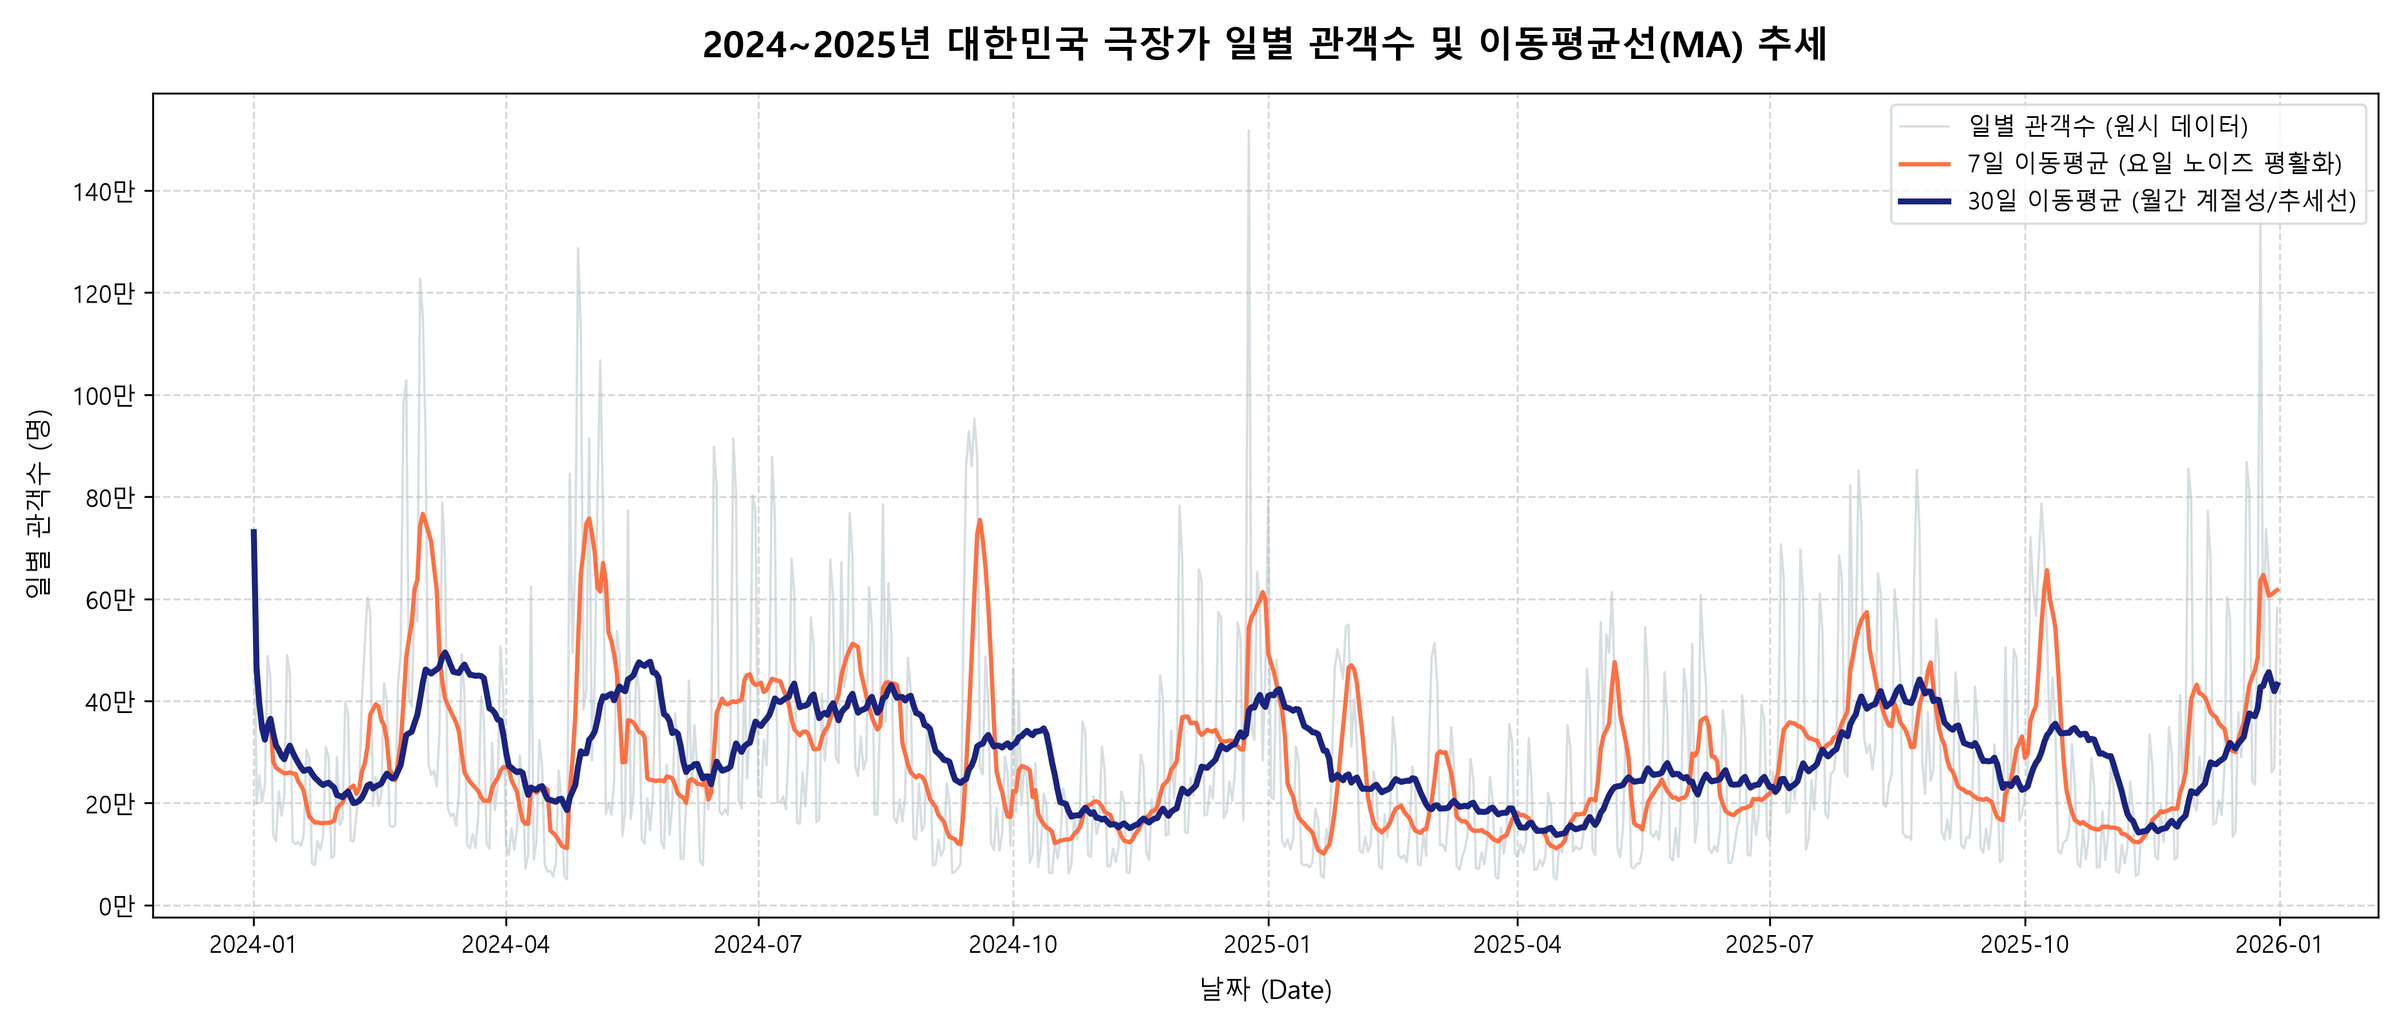
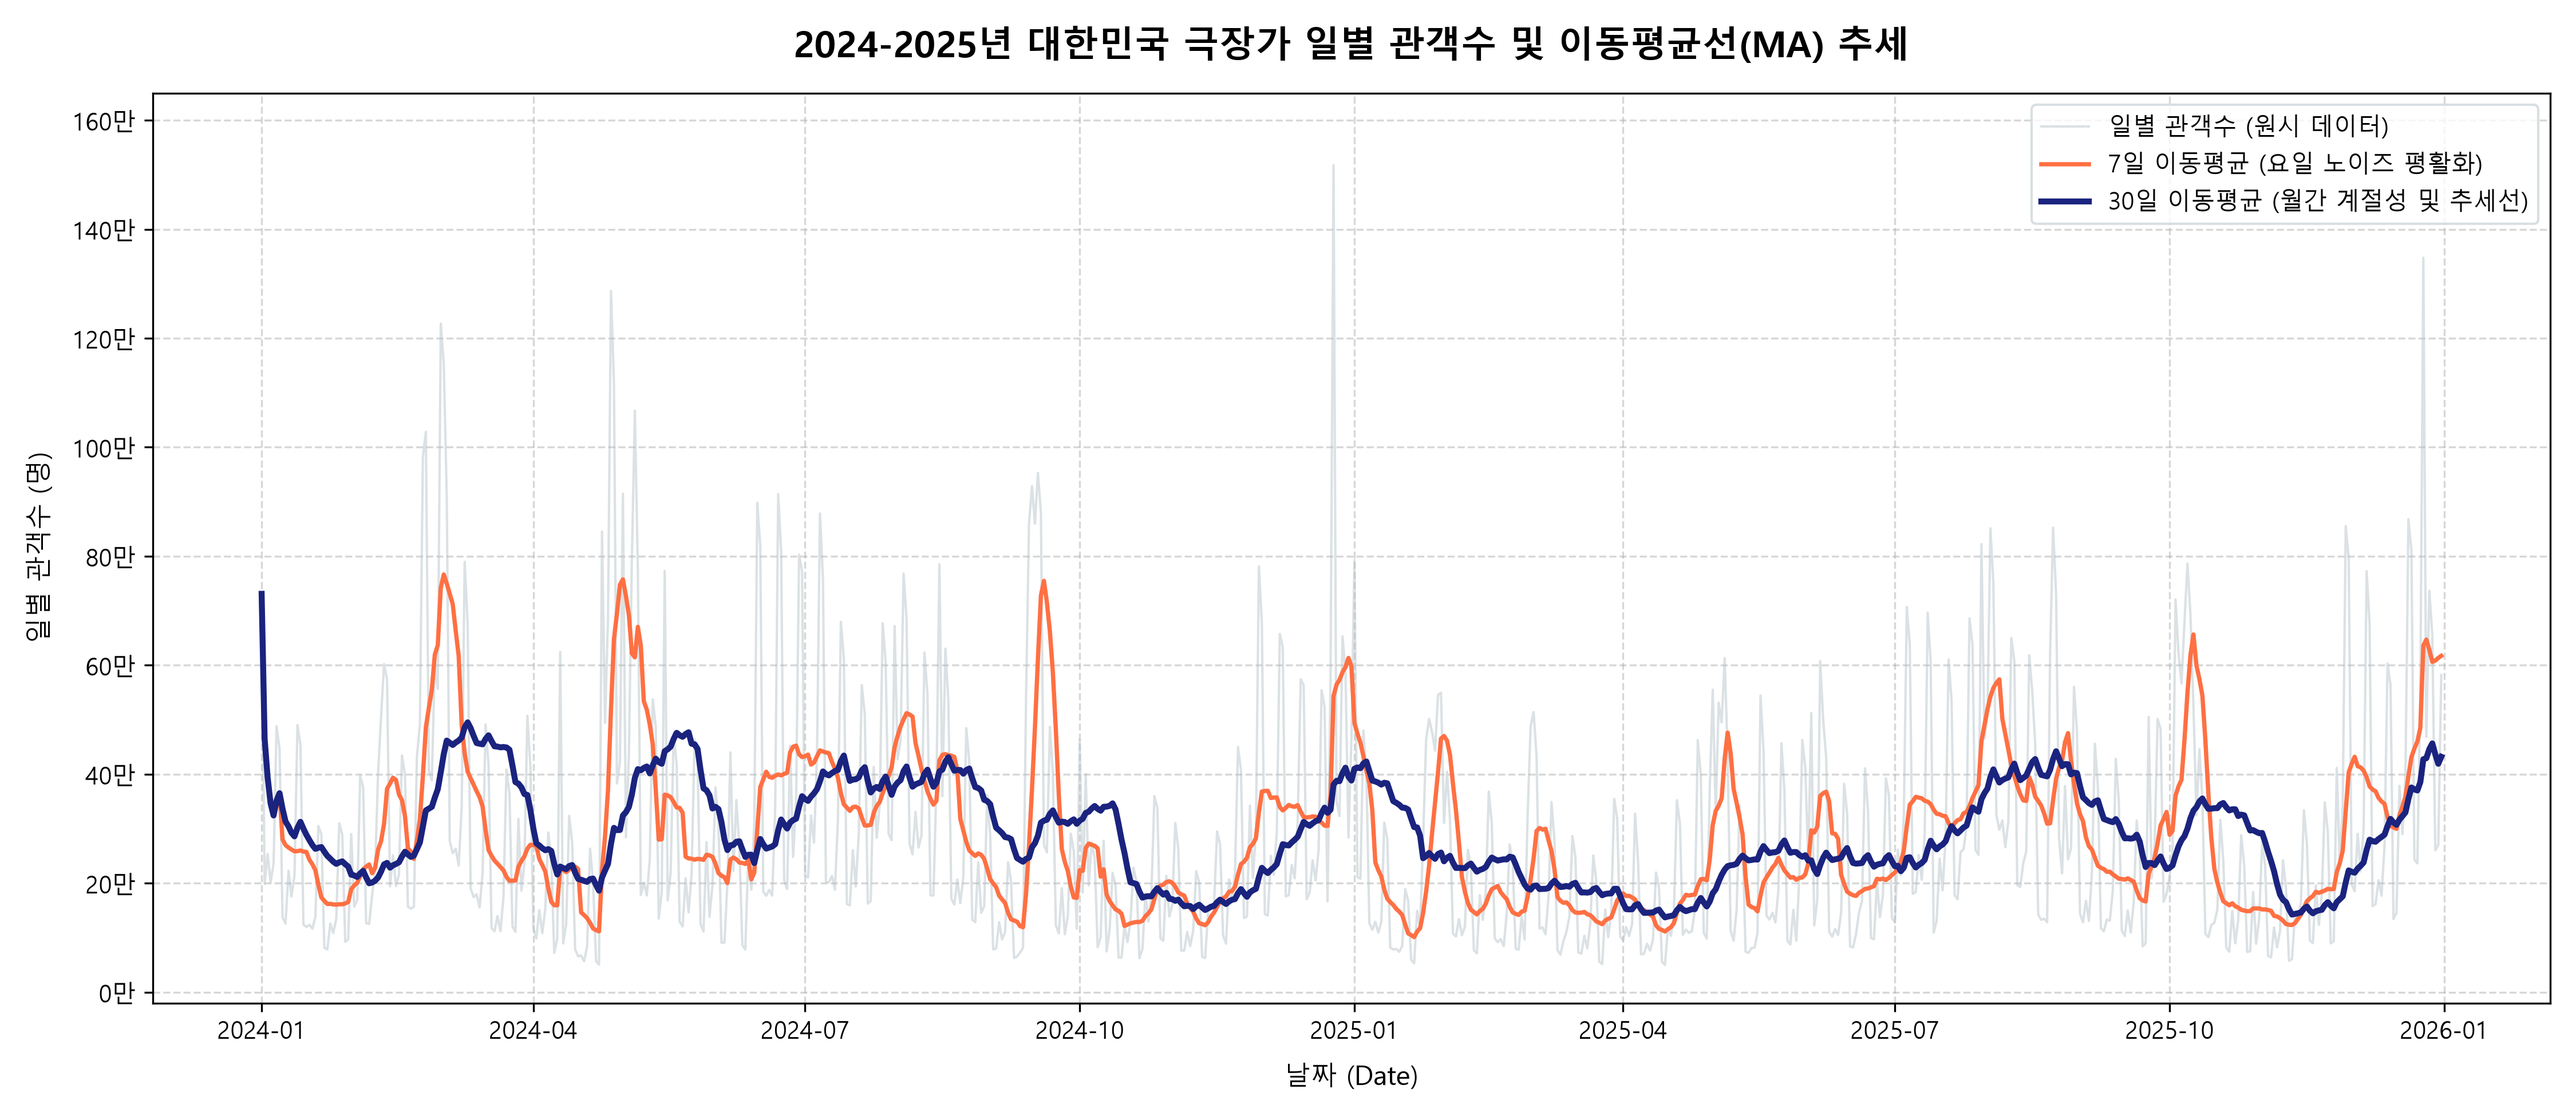
시각화 개선: 03 이상치 어노테이션 텍스트 겹침 완전 해결 및 범위 기호(-) 통일

diff --git a/generate_visualizations.py b/generate_visualizations.py
@@ -1,9 +1,13 @@
 """
-STEP 4. 고품질 시각화 3종 생성 및 images/ 저장 스크립트
+STEP 4. 고품질 시각화 3종 생성 및 images/ 저장 스크립트 (수정본)
 
-1. images/01_audience_trend_ma.png: 일별 관객수 및 7일/30일 이동평균선 추세
-2. images/02_dow_and_monthly_pattern.png: 요일별 패턴(주말 2.19배) 및 월별 계절성 비교
-3. images/03_outlier_peaks_annotated.png: 역대 TOP 5 이상치(피크) 및 원인 영화 어노테이션
+수정 사항:
+1. 모든 제목, 축 라벨, 범례에서 물결표(~)를 하이픈(-)으로 전면 교체
+2. 03_outlier_peaks_annotated.png 에서:
+   - y축 상단 여백을 205만까지 확장하여 제목과 어노테이션 말풍선 겹침 완전 해결
+   - 범례 위치와 말풍선 위치의 충돌을 방지하기 위해 범례를 중앙 상단으로 재배치
+   - 2024-03-01과 2024-03-02 연속된 두 피크의 말풍선이 겹치지 않도록 방향 분리
+   - 배경 박스 가독성 및 폰트 굵기/선명도 향상
 """
 import os
 import sys
@@ -12,7 +16,6 @@ import matplotlib.ticker as ticker
 import numpy as np
 import pandas as pd
 
-# 1. 폰트 및 한글 깨짐 방지 설정
 if sys.platform.startswith("win"):
     try:
         sys.stdout.reconfigure(encoding="utf-8")
@@ -28,25 +31,23 @@ df = pd.read_csv(IN_PATH, encoding="utf-8-sig")
 df["date"] = pd.to_datetime(df["date"])
 
 print("=" * 65)
-print("🎨 [STEP 4] 리포트용 고품질 시각화 3종 생성 시작")
+print("🎨 [STEP 4 수정] 텍스트 겹침 해결 및 기호(-) 교체 시각화 생성")
 print("=" * 65)
 
 # -------------------------------------------------------------
-# 시각화 1: 2024~2025 일별 관객수 및 이동평균선(7일/30일) 추세
+# 시각화 1: 2024-2025 일별 관객수 및 이동평균선(7일/30일) 추세
 # -------------------------------------------------------------
-plt.figure(figsize=(14, 6), dpi=300)
+plt.figure(figsize=(15, 6.5), dpi=300)
 ax = plt.subplot(1, 1, 1)
 
-# 원본 관객수 (연한 회청색)
-ax.plot(df["date"], df["total_audi"], color="#b0bec5", alpha=0.5, linewidth=1.0, label="일별 관객수 (원시 데이터)")
-# 7일 이동평균 (오렌지)
+ax.plot(df["date"], df["total_audi"], color="#b0bec5", alpha=0.45, linewidth=1.0, label="일별 관객수 (원시 데이터)")
 ax.plot(df["date"], df["ma_7"], color="#ff7043", linewidth=1.8, label="7일 이동평균 (요일 노이즈 평활화)")
-# 30일 이동평균 (네이비 굵은 선)
-ax.plot(df["date"], df["ma_30"], color="#1a237e", linewidth=2.5, label="30일 이동평균 (월간 계절성/추세선)")
+ax.plot(df["date"], df["ma_30"], color="#1a237e", linewidth=2.5, label="30일 이동평균 (월간 계절성 및 추세선)")
 
-ax.set_title("2024~2025년 대한민국 극장가 일별 관객수 및 이동평균선(MA) 추세", fontsize=15, fontweight="bold", pad=15)
+ax.set_title("2024-2025년 대한민국 극장가 일별 관객수 및 이동평균선(MA) 추세", fontsize=15, fontweight="bold", pad=15)
 ax.set_xlabel("날짜 (Date)", fontsize=11, labelpad=8)
 ax.set_ylabel("일별 관객수 (명)", fontsize=11, labelpad=8)
+ax.set_ylim(-20000, 1650000)
 ax.yaxis.set_major_formatter(ticker.FuncFormatter(lambda x, p: f"{int(x/10000):,}만"))
 ax.grid(True, linestyle="--", alpha=0.5)
 ax.legend(loc="upper right", frameon=True, facecolor="white", edgecolor="#cfd8dc", fontsize=10)
@@ -60,31 +61,30 @@ print(f"✅ [1/3] 시각화 1 저장 완료: {img1_path}")
 # -------------------------------------------------------------
 # 시각화 2: 요일별 관객 분포 & 월별 성수기/비수기 계절성 비교 (1행 2열)
 # -------------------------------------------------------------
-fig, axes = plt.subplots(1, 2, figsize=(16, 6), dpi=300)
+fig, axes = plt.subplots(1, 2, figsize=(16, 6.5), dpi=300)
 
-# (좌측) 요일별 평균 관객수
 dow_order = ["월요일", "화요일", "수요일", "목요일", "금요일", "토요일", "일요일"]
 dow_avg = df.groupby("day_of_week")["total_audi"].mean().reindex(dow_order)
 
 colors = ["#90a4ae", "#90a4ae", "#42a5f5", "#90a4ae", "#5c6bc0", "#e53935", "#ef5350"]
 bars = axes[0].bar(dow_order, dow_avg, color=colors, edgecolor="black", linewidth=0.6, width=0.65)
 
-# 평일 / 주말 평균 점선
 weekday_avg = df[~df["is_weekend"]]["total_audi"].mean()
 weekend_avg = df[df["is_weekend"]]["total_audi"].mean()
-axes[0].axhline(weekday_avg, color="#37474f", linestyle="--", alpha=0.7, label=f"평일 평균: {int(weekday_avg/10000):.1f}만명")
-axes[0].axhline(weekend_avg, color="#b71c1c", linestyle="--", alpha=0.7, label=f"주말 평균: {int(weekend_avg/10000):.1f}만명 (평일의 2.19배)")
+axes[0].axhline(weekday_avg, color="#37474f", linestyle="--", alpha=0.75, label=f"평일 평균: {int(weekday_avg/10000):.1f}만명")
+axes[0].axhline(weekend_avg, color="#b71c1c", linestyle="--", alpha=0.75, label=f"주말 평균: {int(weekend_avg/10000):.1f}만명 (평일의 2.19배)")
 
 for bar in bars:
     yval = bar.get_height()
     axes[0].text(bar.get_x() + bar.get_width() / 2.0, yval + 10000, f"{int(yval/10000):.1f}만",
-                 ha="center", va="bottom", fontsize=9, fontweight="bold")
+                 ha="center", va="bottom", fontsize=9.5, fontweight="bold")
 
 axes[0].set_title("요일별 평균 관객수 (수요일 반등 & 주말 쏠림)", fontsize=13, fontweight="bold", pad=12)
 axes[0].set_ylabel("평균 관객수 (명)", fontsize=11)
+axes[0].set_ylim(0, 600000)
 axes[0].yaxis.set_major_formatter(ticker.FuncFormatter(lambda x, p: f"{int(x/10000):,}만"))
 axes[0].grid(axis="y", linestyle="--", alpha=0.5)
-axes[0].legend(loc="upper left", fontsize=9)
+axes[0].legend(loc="upper left", fontsize=9.5)
 
 # (우측) 2024 vs 2025 월별 총 관객수 비교
 monthly_24 = df[df["year"] == 2024].groupby("month")["total_audi"].sum()
@@ -95,7 +95,7 @@ width = 0.38
 axes[1].bar(months - width / 2, monthly_24, width=width, color="#00897b", edgecolor="black", linewidth=0.5, label="2024년 (총 1.16억명)")
 axes[1].bar(months + width / 2, monthly_25, width=width, color="#fb8c00", edgecolor="black", linewidth=0.5, label="2025년 (총 0.98억명)")
 
-axes[1].set_title("2024 vs 2025 월별 총 관객수 비교 (연말/여름 성수기)", fontsize=13, fontweight="bold", pad=12)
+axes[1].set_title("2024 vs 2025 월별 총 관객수 비교 (연말 및 여름 성수기)", fontsize=13, fontweight="bold", pad=12)
 axes[1].set_xlabel("월 (Month)", fontsize=11)
 axes[1].set_ylabel("월간 총 관객수 (명)", fontsize=11)
 axes[1].set_xticks(months)
@@ -111,46 +111,98 @@ plt.close()
 print(f"✅ [2/3] 시각화 2 저장 완료: {img2_path}")
 
 # -------------------------------------------------------------
-# 시각화 3: 역대 TOP 5 이상치(피크) & 원인 영화 어노테이션
+# 시각화 3: 역대 TOP 5 이상치(피크) & 원인 영화 어노테이션 (겹침 방지 튜닝)
 # -------------------------------------------------------------
-plt.figure(figsize=(15, 7), dpi=300)
+plt.figure(figsize=(16, 8), dpi=300)
 ax = plt.subplot(1, 1, 1)
 
-ax.plot(df["date"], df["total_audi"], color="#90caf9", alpha=0.7, linewidth=1.2, label="일별 관객수")
-ax.plot(df["date"], df["ma_7"], color="#3949ab", alpha=0.8, linewidth=1.5, linestyle=":", label="7일 이동평균선")
+# 일별 관객수 및 이동평균
+ax.plot(df["date"], df["total_audi"], color="#90caf9", alpha=0.6, linewidth=1.2, label="일별 관객수")
+ax.plot(df["date"], df["ma_7"], color="#1565c0", alpha=0.85, linewidth=1.6, linestyle="--", label="7일 이동평균선")
 
-# TOP 5 피크 데이 선정
+# TOP 5 피크 포인트
 top5 = df.sort_values("total_audi", ascending=False).head(5)
-ax.scatter(top5["date"], top5["total_audi"], color="#d50000", s=90, zorder=5, edgecolor="black", label="관객수 TOP 5 피크 (이상치)")
+ax.scatter(top5["date"], top5["total_audi"], color="#d50000", s=100, zorder=6, edgecolor="black", linewidth=1.2, label="관객수 TOP 5 피크 (이상치)")
 
-# 화살표 어노테이션 설정 (가독성을 위한 오프셋 튜닝)
-offsets = [
-    (15, 35),    # 2024-12-25 크리스마스
-    (-130, 30),  # 2025-12-25 크리스마스
-    (-25, 40),   # 2024-04-27 범죄도시4
-    (-130, 40),  # 2024-03-01 삼일절 파묘
-    (15, -45)    # 2024-03-02 토요일 파묘
+# 상단 여백 확보: 210만까지 늘려서 제목/범례/어노테이션이 절대 겹치지 않음
+ax.set_ylim(-30000, 2100000)
+
+# 범례를 좌측 상단 여유 공간에 깔끔하게 배치
+ax.legend(loc="upper left", bbox_to_anchor=(0.02, 0.98), frameon=True, facecolor="white", edgecolor="#b0bec5", fontsize=10.5)
+
+# 피크별 개별 맞춤 어노테이션 좌표 설정 (겹침 완전 방지)
+# (날짜, x_offset, y_offset, 텍스트)
+custom_annotations = [
+    # 1위: 2024-12-25 하얼빈 (위쪽 약간 우측)
+    {
+        "date": "2024-12-25",
+        "xytext": (-20, 55),
+        "rad": 0.0,
+        "bg": "#fff9c4",
+        "border": "#f57f17"
+    },
+    # 2위: 2025-12-25 아바타: 불과 재 (좌측 상단으로 뻗음)
+    {
+        "date": "2025-12-25",
+        "xytext": (-140, 50),
+        "rad": 0.15,
+        "bg": "#fff9c4",
+        "border": "#f57f17"
+    },
+    # 3위: 2024-04-27 범죄도시4 (우측 상단으로 뻗음)
+    {
+        "date": "2024-04-27",
+        "xytext": (25, 60),
+        "rad": -0.15,
+        "bg": "#ffe0b2",
+        "border": "#e65100"
+    },
+    # 4위: 2024-03-01 삼일절 파묘 (좌측 상단으로 뻗음)
+    {
+        "date": "2024-03-01",
+        "xytext": (-140, 45),
+        "rad": 0.15,
+        "bg": "#e1f5fe",
+        "border": "#0288d1"
+    },
+    # 5위: 2024-03-02 토요일 파묘 (우측 하단 빈 공간으로 뻗어 3/1과 겹침 분리!)
+    {
+        "date": "2024-03-02",
+        "xytext": (30, -75),
+        "rad": -0.2,
+        "bg": "#e1f5fe",
+        "border": "#0288d1"
+    }
 ]
 
-for (_, r), (ox, oy) in zip(top5.iterrows(), offsets):
-    txt = f"[{r['date'].strftime('%Y-%m-%d')}]\n1위: {r['top_movie']}\n{r['total_audi']:,}명 (점유율 {r['top1_share']}%)"
+for item in custom_annotations:
+    row = df[df["date"] == item["date"]].iloc[0]
+    txt = (
+        f"[{row['date'].strftime('%Y-%m-%d')}]\n"
+        f"1위: {row['top_movie']}\n"
+        f"{row['total_audi']:,}명 (점유율 {row['top1_share']}%)"
+    )
     ax.annotate(
         txt,
-        xy=(r["date"], r["total_audi"]),
-        xytext=(ox, oy),
+        xy=(row["date"], row["total_audi"]),
+        xytext=item["xytext"],
         textcoords="offset points",
-        fontsize=8.5,
+        fontsize=9,
         fontweight="bold",
-        bbox=dict(boxstyle="round,pad=0.4", fc="#fff9c4", ec="#f57f17", lw=1.2, alpha=0.95),
-        arrowprops=dict(arrowstyle="->", connectionstyle="arc3,rad=0.15", color="#b71c1c", lw=1.5)
+        bbox=dict(boxstyle="round,pad=0.5", fc=item["bg"], ec=item["border"], lw=1.3, alpha=0.97),
+        arrowprops=dict(
+            arrowstyle="->",
+            connectionstyle=f"arc3,rad={item['rad']}",
+            color="#b71c1c",
+            lw=1.6
+        )
     )
 
-ax.set_title("2024~2025년 대한민국 극장가 관객수 TOP 5 피크(이상치) & 원인 영화", fontsize=15, fontweight="bold", pad=15)
+ax.set_title("2024-2025년 대한민국 극장가 관객수 TOP 5 피크(이상치) & 원인 영화", fontsize=16, fontweight="bold", pad=20)
 ax.set_xlabel("날짜 (Date)", fontsize=11, labelpad=8)
 ax.set_ylabel("일별 관객수 (명)", fontsize=11, labelpad=8)
 ax.yaxis.set_major_formatter(ticker.FuncFormatter(lambda x, p: f"{int(x/10000):,}만"))
 ax.grid(True, linestyle="--", alpha=0.5)
-ax.legend(loc="upper left", frameon=True, facecolor="white", edgecolor="#cfd8dc", fontsize=10)
 
 img3_path = os.path.join("images", "03_outlier_peaks_annotated.png")
 plt.tight_layout()
